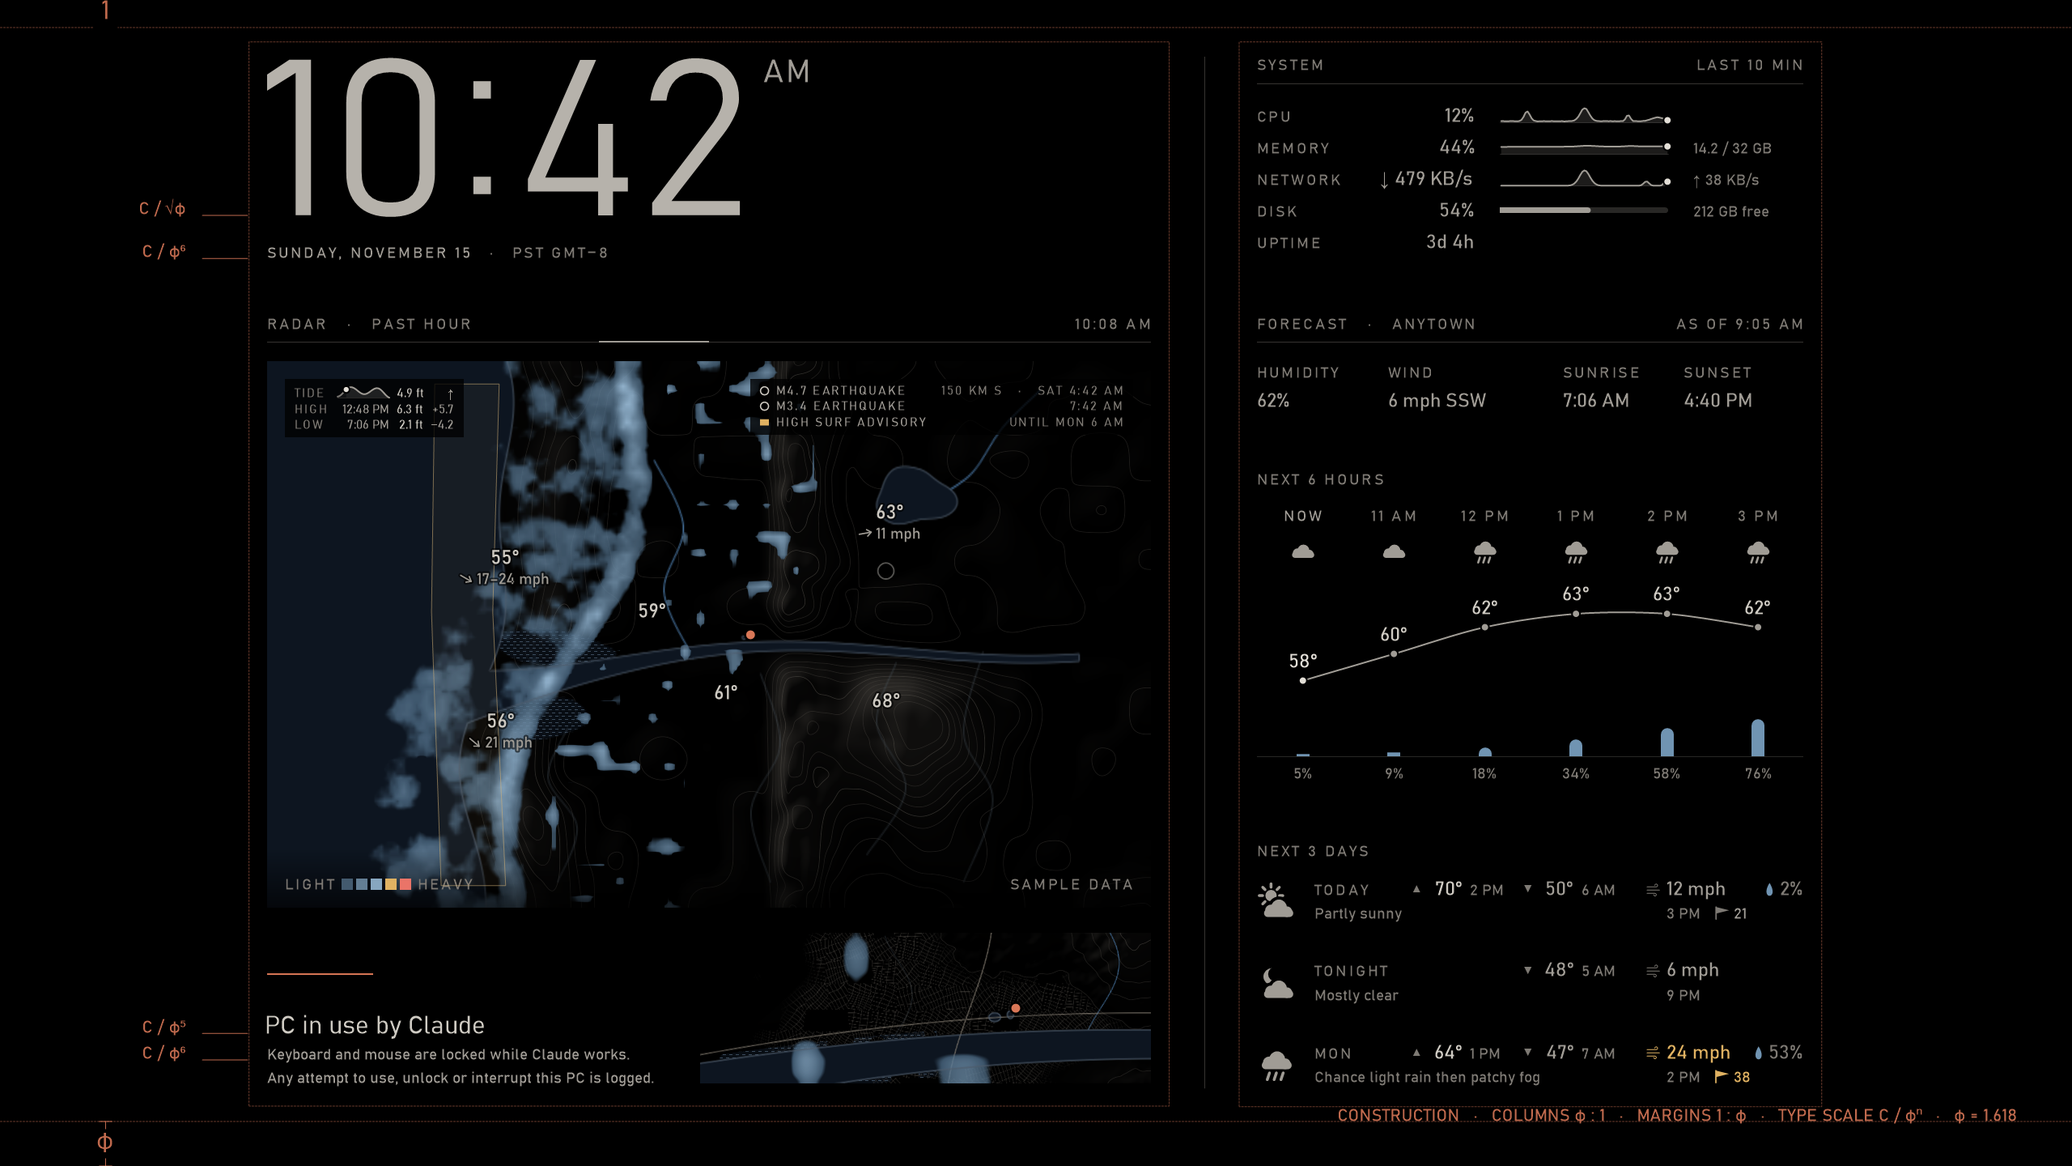
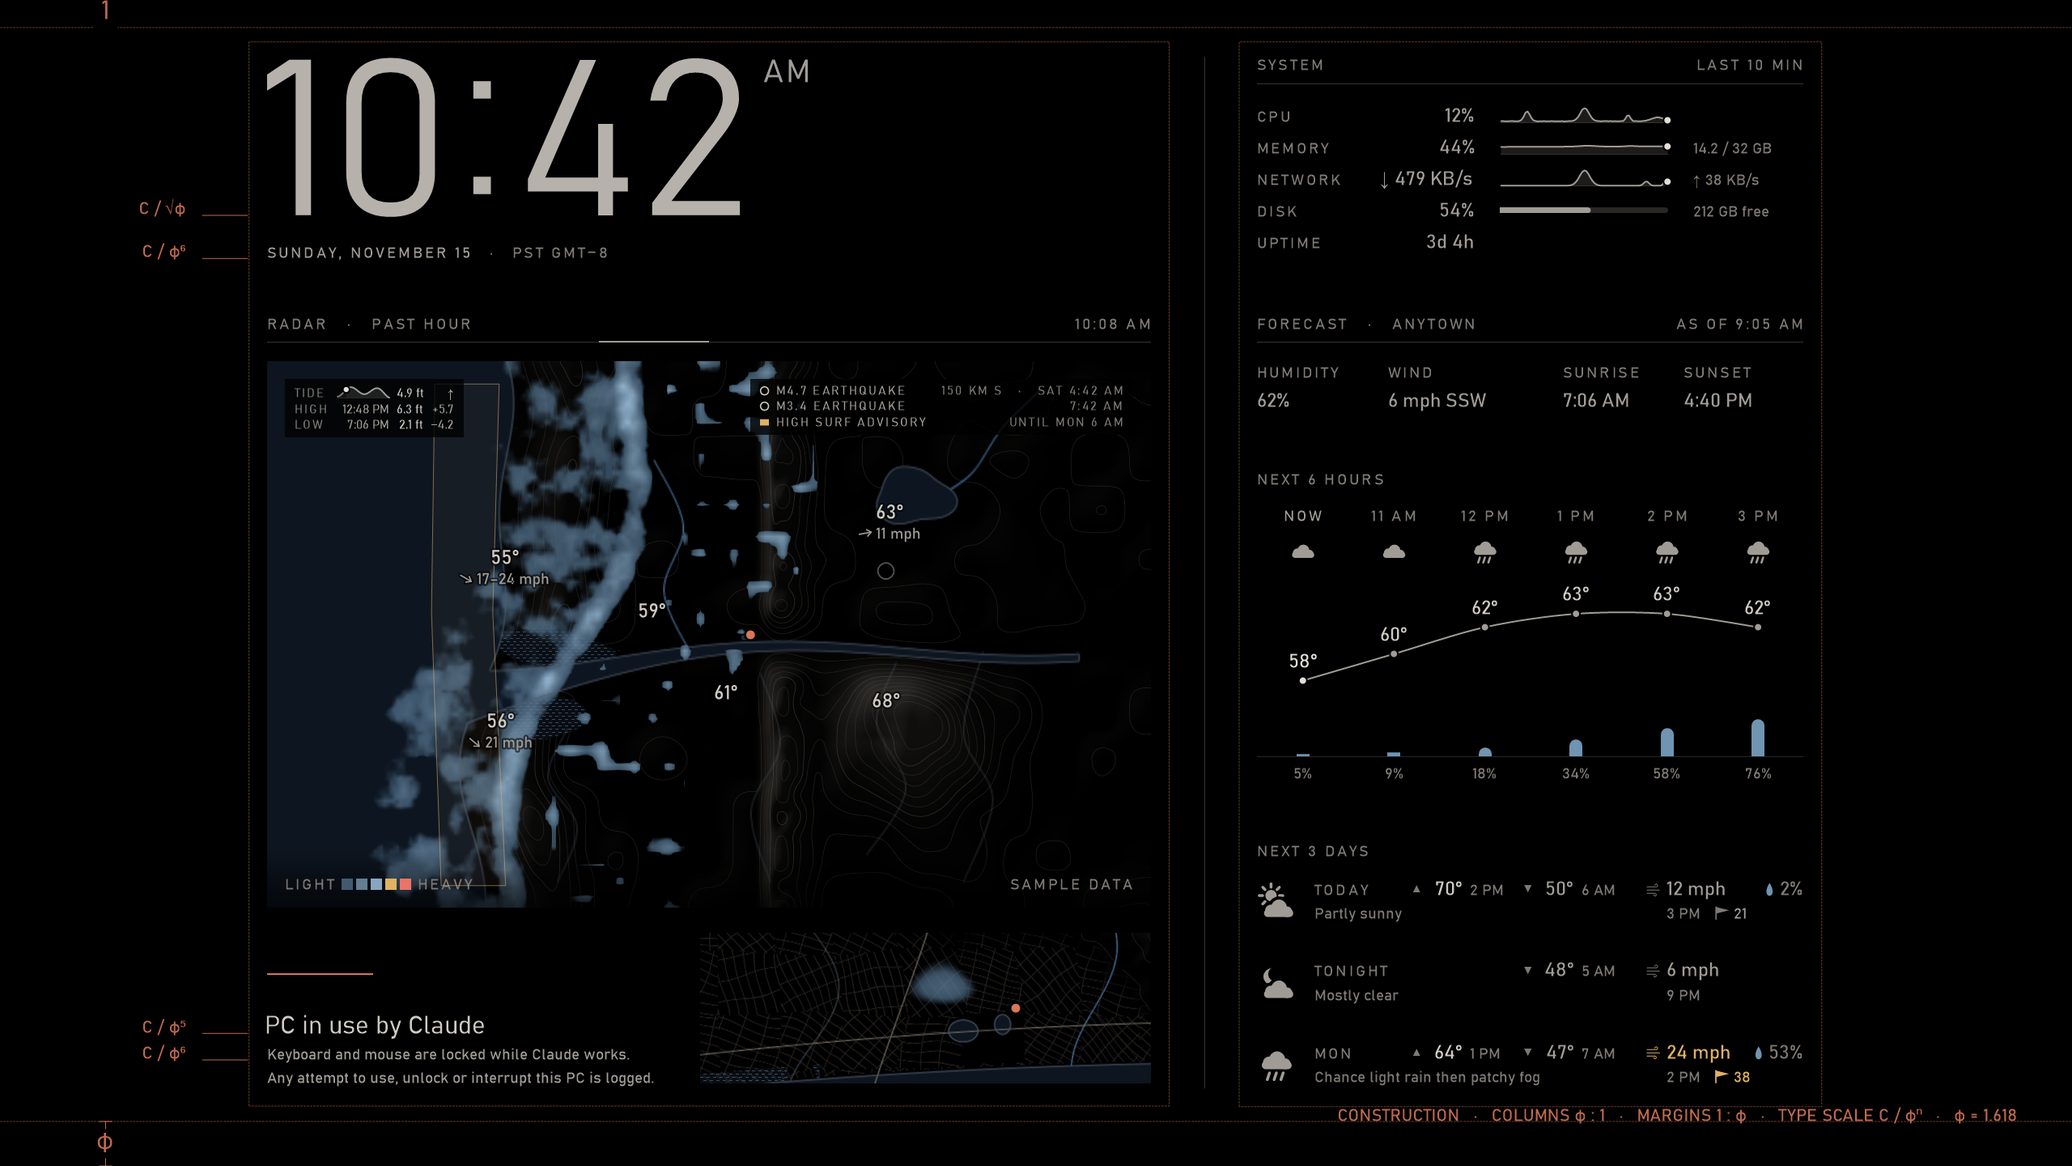
Curtain close-up: 2.5x closer, with finer streets, creeks and relief
The close-up now shows 4.6 km top to bottom (11.5 before), so its ground
is fetched at twice the detail: a 0.2 x 0.4 degree box at about 12 m a
pixel, zoom-13 elevation with 50 m contours, and the hydrography's
high-resolution creek lines. Canals and ditches draw as seasonal (in a
town they are mostly flood channels), and seasonal creeks draw stronger
close in so they stand apart from the streets. The ground is kept
between refreshes while its files are unchanged. The sample gets a
shower over its town so previews show the close-up at work.

Changed region(s): [[0.3438, 0.7812, 0.5625, 0.9375]]

diff --git a/src/WeatherMap.cs b/src/WeatherMap.cs
@@ -159,7 +159,7 @@ namespace ClaudeCurtain
         public GeoBox FrameBox;                   // the box the weather pictures cover: Box, or the big map's for the close-up
         public byte[] Roads = new byte[0];        // the bigger roads (close-up only), 0 ... 255 by size, on the base grid
         public byte[] Streets = new byte[0];      // local streets, 0 ... 255, the same way
-        public const double DetailViewKm = 11.5;  // the close-up's height
+        public const double DetailViewKm = 4.6;   // the close-up's height (11.5 km at first: "too zoomed out, I'd want at least 2x or more")
         public const double DetailWestShare = 0.7; // home 7/10 of the way across: the larger part of the view west
 
         public const double StationStaleHours = 2;   // older station reports are never shown
@@ -433,12 +433,14 @@ namespace ClaudeCurtain
                 Index dx = ix.Detail;
                 if (dx != null && dx.HasBox && dx.Base != null && dx.Box.KmTall < 200)
                 {
-                    WeatherMap d = new WeatherMap { Box = dx.Box, FrameBox = m.Box, Radar = m.Radar, Sat = m.Sat };
                     try
                     {
-                        if (LoadGround(d, dir, dx))
+                        WeatherMap d = DetailGround(dir, dx);
+                        if (d != null)
                         {
-                            if (dx.DemZoom > 0) LoadDem(d, dir, dx);
+                            d.FrameBox = m.Box;
+                            d.Radar = m.Radar;
+                            d.Sat = m.Sat;
                             d.Key = d.MakeKey();
                             m.Detail = d;
                         }
@@ -452,6 +454,40 @@ namespace ClaudeCurtain
             {
                 return null;
             }
+        }
+
+        // The close-up's ground (about 3200 x 1600 cells and 70 elevation tiles) changes only with the place, while
+        // map.txt changes every few minutes with the weather: it is kept from the last load while its files are
+        // the same, so a refresh decodes only the new pictures. Never changed once built, so maps share it.
+        private static readonly object groundGate = new object();
+        private static string groundKey;
+        private static WeatherMap ground;
+
+        /// <summary>A fresh copy of the close-up's ground (the cached one while its files are unchanged), or null.</summary>
+        private static WeatherMap DetailGround(string dir, Index dx)
+        {
+            StringBuilder key = new StringBuilder(Path.GetFullPath(dir)).Append('|').Append(dx.Box).Append('|');
+            key.Append(dx.DemZoom).Append(' ').Append(dx.DemX0).Append(' ').Append(dx.DemY0).Append(' ').Append(dx.DemX1).Append(' ').Append(dx.DemY1);
+            foreach (string name in new[] { dx.Base, dx.Water, dx.WaterFine, dx.Marsh, dx.Streams, dx.Roads })
+            {
+                FileInfo fi = name != null ? new FileInfo(Path.Combine(dir, name)) : null;
+                key.Append('|').Append(name ?? "-");
+                if (fi != null && fi.Exists) key.Append('@').Append(fi.LastWriteTimeUtc.Ticks).Append('/').Append(fi.Length);
+            }
+            string k = key.ToString();
+            lock (groundGate)
+            {
+                if (ground != null && groundKey == k) return (WeatherMap)ground.MemberwiseClone();
+            }
+            WeatherMap d = new WeatherMap { Box = dx.Box };
+            if (!LoadGround(d, dir, dx)) return null;
+            if (dx.DemZoom > 0) LoadDem(d, dir, dx);
+            lock (groundGate)
+            {
+                groundKey = k;
+                ground = d;
+            }
+            return (WeatherMap)d.MemberwiseClone();
         }
 
         /// <summary>
@@ -567,7 +603,7 @@ namespace ClaudeCurtain
 
         internal static float[] StitchDem(float[][] tiles, int z, int x0, int y0, int nx, int ny, GeoBox box, out int w, out int h)
         {
-            double cell = z >= 12 ? 0.0003 : z >= 10 ? 0.00125 : 0.0025;   // about the tiles' own resolution (zoom 12: the close-up)
+            double cell = z >= 13 ? 0.00015 : z >= 12 ? 0.0003 : z >= 10 ? 0.00125 : 0.0025;   // about the tiles' own resolution (13: the close-up)
             w = Math.Max(2, Math.Min(4096, (int)Math.Round((box.East - box.West) / cell)));
             h = Math.Max(2, Math.Min(2048, (int)Math.Round((box.North - box.South) / cell)));
             double[] gxs = new double[w], gys = new double[h];
@@ -1207,6 +1243,11 @@ namespace ClaudeCurtain
                         double v = Math.Max(line, trail) * (0.45 + 1.05 * n) - 6;
                         double ahead = u > 6 && u < 40 ? 22 * Math.Max(0, Noise(ex / 4.0 + 40, ey / 4.0) - 0.74) / 0.26 : 0;   // stray showers
                         v = Math.Max(v, ahead > 0 ? 14 + ahead : 0);
+                        // and a shower that hangs over home's town all hour, as one can by the hills, waxing and
+                        // waning, so the close-up has weather in every frame
+                        double gx = homeX(xn, yn) + 2.2, gy = homeY(xn, yn) - 0.6;   // km from its middle, on the ground
+                        double shower = (30 + 6 * Math.Sin(ago / 9.0)) * Math.Exp(-(gx * gx / 3.0 + gy * gy / 1.6));
+                        if (shower > 12) v = Math.Max(v, shower);
                         fr.Values[y * rw + x] = (byte)(v >= 12 ? Math.Min(80, v) : 0);
                     }
                 }
@@ -1297,7 +1338,7 @@ namespace ClaudeCurtain
                 double mount = 1150 * Math.Exp(-(ex * ex + ey * ey) / (2 * 13.0 * 13.0)) * (0.8 + 0.4 * Noise(xn * 30, yn * 12));
                 double hills = 300 * Math.Max(0, Noise(xn * 22 + 5, yn * 11) - 0.3) * Smooth01(kmIn / 20);
                 double fx = homeX(xn, yn);
-                double foot = 560 * Smooth01((fx - 2.5) / 7.0) * Math.Exp(-Math.Pow((fx - 11) / 9.0, 2)) * (0.65 + 0.5 * Noise(xn * 60 + 9, yn * 24));
+                double foot = 560 * Smooth01((fx - 1.5) / 4.0) * Math.Exp(-Math.Pow((fx - 8) / 7.0, 2)) * (0.65 + 0.5 * Noise(xn * 60 + 9, yn * 24));
                 double ry = 0.585 - 0.12 * (xn - 0.23) + 0.03 * Math.Sin(xn * 9.0 + 0.3);
                 double valley = Math.Exp(-Math.Pow((yn - ry) * boxKmH / 7.0, 2));
                 return (ridge + mount + hills + foot + 20 * Smooth01(kmIn / 3)) * (1 - 0.88 * valley);
@@ -1319,8 +1360,8 @@ namespace ClaudeCurtain
         }
 
         /// <summary>
-        /// The sample's close-up: the same made-up place, 0.3 x 0.7 degrees around home (as the weather script cuts
-        /// the real one: more of it west) at 0.0005 degree a cell,
+        /// The sample's close-up: the same made-up place, 0.2 x 0.4 degrees around home (as the weather script cuts
+        /// the real one: more of it west) at 0.00025 degree a cell,
         /// its river, ponds and hills from the map's own functions (with gullies only seen close in), and what
         /// only the close-up shows: a town's streets on the low ground (each neighbourhood's grid at its own
         /// angle, a few parks), two freeways (one on a bridge over the river), creeks from the
@@ -1332,15 +1373,15 @@ namespace ClaudeCurtain
             double cLat = Math.Round(lat, 1), cLon = Math.Round(lon, 1);
             WeatherMap c = new WeatherMap
             {
-                Box = new GeoBox(cLat - 0.15, cLon - 0.45, cLat + 0.15, cLon + 0.25), FrameBox = m.Box, Radar = m.Radar, Sat = m.Sat,
+                Box = new GeoBox(cLat - 0.1, cLon - 0.25, cLat + 0.1, cLon + 0.15), FrameBox = m.Box, Radar = m.Radar, Sat = m.Sat,
                 BaseId = "sample-detail", DemId = "sample-detail",
             };
-            int w = 1400, h = 600;
+            int w = 1600, h = 800;
             c.BaseW = w; c.BaseH = h; c.DemW = w; c.DemH = h;
             c.Water = new byte[w * h]; c.Marsh = new byte[w * h]; c.Streams = new byte[w * h]; c.YearRound = new byte[w * h];
             c.Roads = new byte[w * h]; c.Streets = new byte[w * h]; c.Elevation = new float[w * h];
             double kmLon = KmPerDegree * Math.Cos(lat * Math.PI / 180);
-            double cell = (c.Box.KmWide / w + c.Box.KmTall / h) / 2;   // km a cell, about 0.05
+            double cell = (c.Box.KmWide / w + c.Box.KmTall / h) / 2;   // km a cell, about 0.025
             double mw = m.Box.East - m.Box.West, mh = m.Box.North - m.Box.South;
             Func<double, double, double> near = (dist, width) => Math.Max(0, 1 - dist / (cell * width));   // a line's coverage
             Func<double, double, double> gridDist = (u, step) => Math.Abs(u / step - Math.Round(u / step)) * step;
@@ -1386,8 +1427,8 @@ namespace ClaudeCurtain
                                 double wx = ex + 0.3 * (Noise(ex / 1.1 + 31, ny / 1.1) - 0.5), wy = ny + 0.3 * (Noise(ex / 1.1, ny / 1.1 + 31) - 0.5);
                                 double ang = 0.2 + 1.3 * Hash(nx0, ny0 + 101), step = 0.2 + 0.1 * Hash(nx0 + 3, ny0 + 9);
                                 double u = wx * Math.Cos(ang) + wy * Math.Sin(ang), v = -wx * Math.Sin(ang) + wy * Math.Cos(ang);
-                                double st = near(Math.Min(gridDist(u, step), gridDist(v, step * 2.2)), 0.5);
-                                c.Streets[i] = (byte)(255 * 0.6 * st * Math.Min(1, town * 6) * low);   // as thin as the real streets read
+                                double st = near(Math.Min(gridDist(u, step), gridDist(v, step * 2.2)), 0.8);
+                                c.Streets[i] = (byte)(255 * 0.45 * st * Math.Min(1, town * 6) * low);   // as thin as the real streets read
                             }
                         }
                         // marsh on the river's low banks west of town
@@ -1395,8 +1436,8 @@ namespace ClaudeCurtain
                         // creeks: one that flows all year down from the foothills, a seasonal one from the north
                         if (ny > riverNy)
                         {
-                            double yr = ny < 6.5 ? near(Math.Abs(ex - (6.5 + 1.4 * Math.Sin(ny / 2.2))), 0.8) : 0;
-                            double se = ny < 5.5 ? near(Math.Abs(ex - (-9 + 1.1 * Math.Sin(ny / 1.7 + 1))), 0.8) : 0;
+                            double yr = ny < 6.5 ? near(Math.Abs(ex - (2.4 + 0.7 * Math.Sin(ny / 1.2))), 1.2) : 0;
+                            double se = ny < 5.5 ? near(Math.Abs(ex - (-6.2 + 0.8 * Math.Sin(ny / 1.1 + 1))), 1.2) : 0;
                             c.Streams[i] = (byte)(255 * Math.Max(yr, se * 0.67));
                             c.YearRound[i] = (byte)(255 * yr);
                         }
@@ -1671,6 +1712,12 @@ namespace ClaudeCurtain
                 for (int pass = 0; pass < 2; pass++) elev = BoxBlur(elev, w, h, radius);
             }
             double mx = crop.KmWide * 1000.0 / w, my = crop.KmTall * 1000.0 / h;   // metres a pixel
+            // close in (the close-up, ~25 m a pixel), a contour every 50 m and a stronger one every 250 m
+            bool closeIn = Math.Min(mx, my) < ContourHalfBelowMetres;
+            float contour = closeIn ? ContourMetres / 2 : ContourMetres;
+            // close in, seasonal creeks and channels share the ground with every street, so they draw stronger to
+            // stay apart from them (still greyer than the year-round blue)
+            float seasonal = closeIn ? SeasonalCloseStrength : SeasonalStrength;
             // Real hills look flat at the big map's scale, so their heights are exaggerated; closer in (the
             // close-up, ~60 m a pixel) they need less, or every gully turns to grain (2026-11-21).
             double exaggeration = ReliefExaggeration * Math.Min(1.0, Math.Pow(Math.Min(mx, my) / ReliefFullAtMetres, 0.5));
@@ -1701,12 +1748,12 @@ namespace ClaudeCurtain
                         // every fifth (500 m) a little stronger, and where a slope packs the 100 m ones closer than
                         // about three pixels they fade out, so steep ground keeps only its 500 m lines
                         float slope = (float)Math.Sqrt(dE * dE + dN * dN) / 2f;   // metres a pixel
-                        if (e0 > ContourMetres * 0.5f && slope > 0.5f)
+                        if (e0 > contour * 0.5f && slope > 0.5f)
                         {
-                            float n = (float)Math.Round(e0 / ContourMetres);
+                            float n = (float)Math.Round(e0 / contour);
                             bool index = (int)n % ContourIndexEvery == 0;
-                            float off = Math.Abs(e0 - n * ContourMetres) / slope;
-                            float spacing = ContourMetres * (index ? ContourIndexEvery : 1) / slope;   // pixels to the next such line
+                            float off = Math.Abs(e0 - n * contour) / slope;
+                            float spacing = contour * (index ? ContourIndexEvery : 1) / slope;   // pixels to the next such line
                             float room = Math.Max(0f, Math.Min(1f, (spacing - 2.5f) / 2.5f));
                             float a = (1 - off / 0.85f) * (index ? ContourIndexStrength : ContourStrength) * room * Math.Min(1f, land * 1.5f);
                             if (a > 0)
@@ -1733,7 +1780,7 @@ namespace ClaudeCurtain
                         // how much of the line flows all year: a clear blue, drawn stronger; seasonal creeks a dim
                         // grey-blue (2026-11-21)
                         float f = hasYearRound ? Math.Min(1f, yearRound[i] / creek[i]) : 0f;
-                        float a = Math.Min(1f, creek[i]) * (SeasonalStrength + (YearRoundStrength - SeasonalStrength) * f) * land;
+                        float a = Math.Min(1f, creek[i]) * (seasonal + (YearRoundStrength - seasonal) * f) * land;
                         float tr = SeasonalTone.R + (YearRoundTone.R - SeasonalTone.R) * f;
                         float tg = SeasonalTone.G + (YearRoundTone.G - SeasonalTone.G) * f;
                         float tb = SeasonalTone.B + (YearRoundTone.B - SeasonalTone.B) * f;
@@ -1777,6 +1824,7 @@ namespace ClaudeCurtain
         public const float MarshStrength = 0.75f;
         public const float YearRoundStrength = 0.9f;
         public const float SeasonalStrength = 0.5f;
+        public const float SeasonalCloseStrength = 0.85f;   // the close-up's
         internal static readonly Color MarshTone = Color.FromArgb(76, 96, 116);
         internal static readonly Color YearRoundTone = Color.FromArgb(72, 118, 164);
         internal static readonly Color SeasonalTone = Color.FromArgb(86, 100, 112);
@@ -1793,6 +1841,7 @@ namespace ClaudeCurtain
         public const double ReliefExaggeration = 2.4;  // at this scale real hills look flat
         public const double ReliefFullAtMetres = 120;  // ...from this many metres a pixel; less below (the close-up)
         public const float ContourMetres = 100f;        // 200 m until 2026-11-17
+        public const double ContourHalfBelowMetres = 50; // closer than this many metres a pixel, every 50 m (the close-up)
         public const int ContourIndexEvery = 5;         // every 500 m, a little stronger
         public const float ContourStrength = 0.32f;
         public const float ContourIndexStrength = 0.5f;

diff --git a/src/SelfTest.cs b/src/SelfTest.cs
@@ -985,11 +985,11 @@ namespace ClaudeCurtain
                 Check("close-up: streets (green) and the bigger roads (red, by size) read from their own channels",
                       streets[0] == 255 && streets[1] == 0 && streets[2] == 0 && roads[0] == 0 && roads[1] == 128 && roads[2] == 170);
 
-                GeoBox db = new GeoBox(44.85, -122.45, 45.15, -121.75);   // as the weather script cuts it: more of it west
+                GeoBox db = new GeoBox(44.9, -122.25, 45.1, -121.85);   // as the weather script cuts it: more of it west
                 GeoBox dc = WeatherMap.DetailCrop(db, 45.0, -122.0, 560, 190);
                 double across = (-122.0 - dc.West) / (dc.East - dc.West), down = (dc.North - 45.0) / (dc.North - dc.South);
-                GeoBox edge = WeatherMap.DetailCrop(db, 45.14, -121.76, 560, 190);
-                Check("close-up: 11.5 km tall at the screen's shape, home 7/10 of the way across (the town to the west) and halfway down; inside its box near the edge",
+                GeoBox edge = WeatherMap.DetailCrop(db, 45.09, -121.86, 560, 190);
+                Check("close-up: 4.6 km tall at the screen's shape, home 7/10 of the way across (the town to the west) and halfway down; inside its box near the edge",
                       Math.Abs(dc.KmTall - WeatherMap.DetailViewKm) < 0.01 && Math.Abs(dc.KmWide / dc.KmTall - 560 / 190.0) < 0.01 &&
                       Math.Abs(across - WeatherMap.DetailWestShare) < 1e-6 && Math.Abs(down - 0.5) < 1e-6 &&
                       edge.North <= db.North + 1e-9 && edge.East <= db.East + 1e-9 && edge.South >= db.South - 1e-9 && edge.West >= db.West - 1e-9);

diff --git a/README.md b/README.md
@@ -373,16 +373,18 @@ And in the left column:
   when it ends.
 
   The close-up: on a landscape screen, in the room beside the message under the map, a map of the
-  town around home, 11.5 km tall, home 7/10 of the way across (change `DetailViewKm` and
-  `DetailWestShare` in `WeatherMap.cs` to frame it differently). It plays the map's own radar or cloud
-  pictures at the same moment of the loop, so the two always agree, the radar's 1 km cells softened by
-  a third of a cell where blown up this far so showers come out round. Its own ground is fetched once
-  per place: a box of 0.3 x 0.7 degrees around the place rounded to a tenth of a degree (more of it
-  west), at about 25 m a pixel, with the land and water map, the hydrography's water, marsh and
-  creeks, the US Census Bureau's TIGER streets (public domain; local streets a faint weave, state
-  routes and freeways a step lighter and drawn over water too, so bridges show) and zoom-12 elevation
-  (about 30 m, the relief's exaggeration eased at this scale). No label, alerts or stations: the
-  ground, the weather and home.
+  town around home, 4.6 km tall (about 25 m a pixel), home 7/10 of the way across (change
+  `DetailViewKm` and `DetailWestShare` in `WeatherMap.cs` to frame it differently). It plays the
+  map's own radar or cloud pictures at the same moment of the loop, so the two always agree, the
+  radar's 1 km cells softened by a third of a cell where blown up this far so showers come out round.
+  Its own ground is fetched once per place: a box of 0.2 x 0.4 degrees around the place rounded to a
+  tenth of a degree (more of it west), at about 12 m a pixel, with the land and water map, the
+  hydrography's water and marsh and its high-resolution creek lines (canals and ditches drawn as
+  seasonal: in a town they are mostly flood channels), the US Census Bureau's TIGER streets (public
+  domain; local streets a faint weave, state routes and freeways a step lighter and drawn over water
+  too, so bridges show) and zoom-13 elevation (about 15 m; at this scale the relief's exaggeration
+  eases and contours come every 50 m). No label, alerts or stations: the ground, the weather and
+  home. The ground is kept between refreshes while its files are unchanged.
 
   Under the weather, the **relief**: the land's shape from AWS Terrain Tiles (in the United States, USGS
   3DEP elevation; about 120 m a cell at zoom 10, about 70 tiles, 7 MB, fetched once per place), sampled
